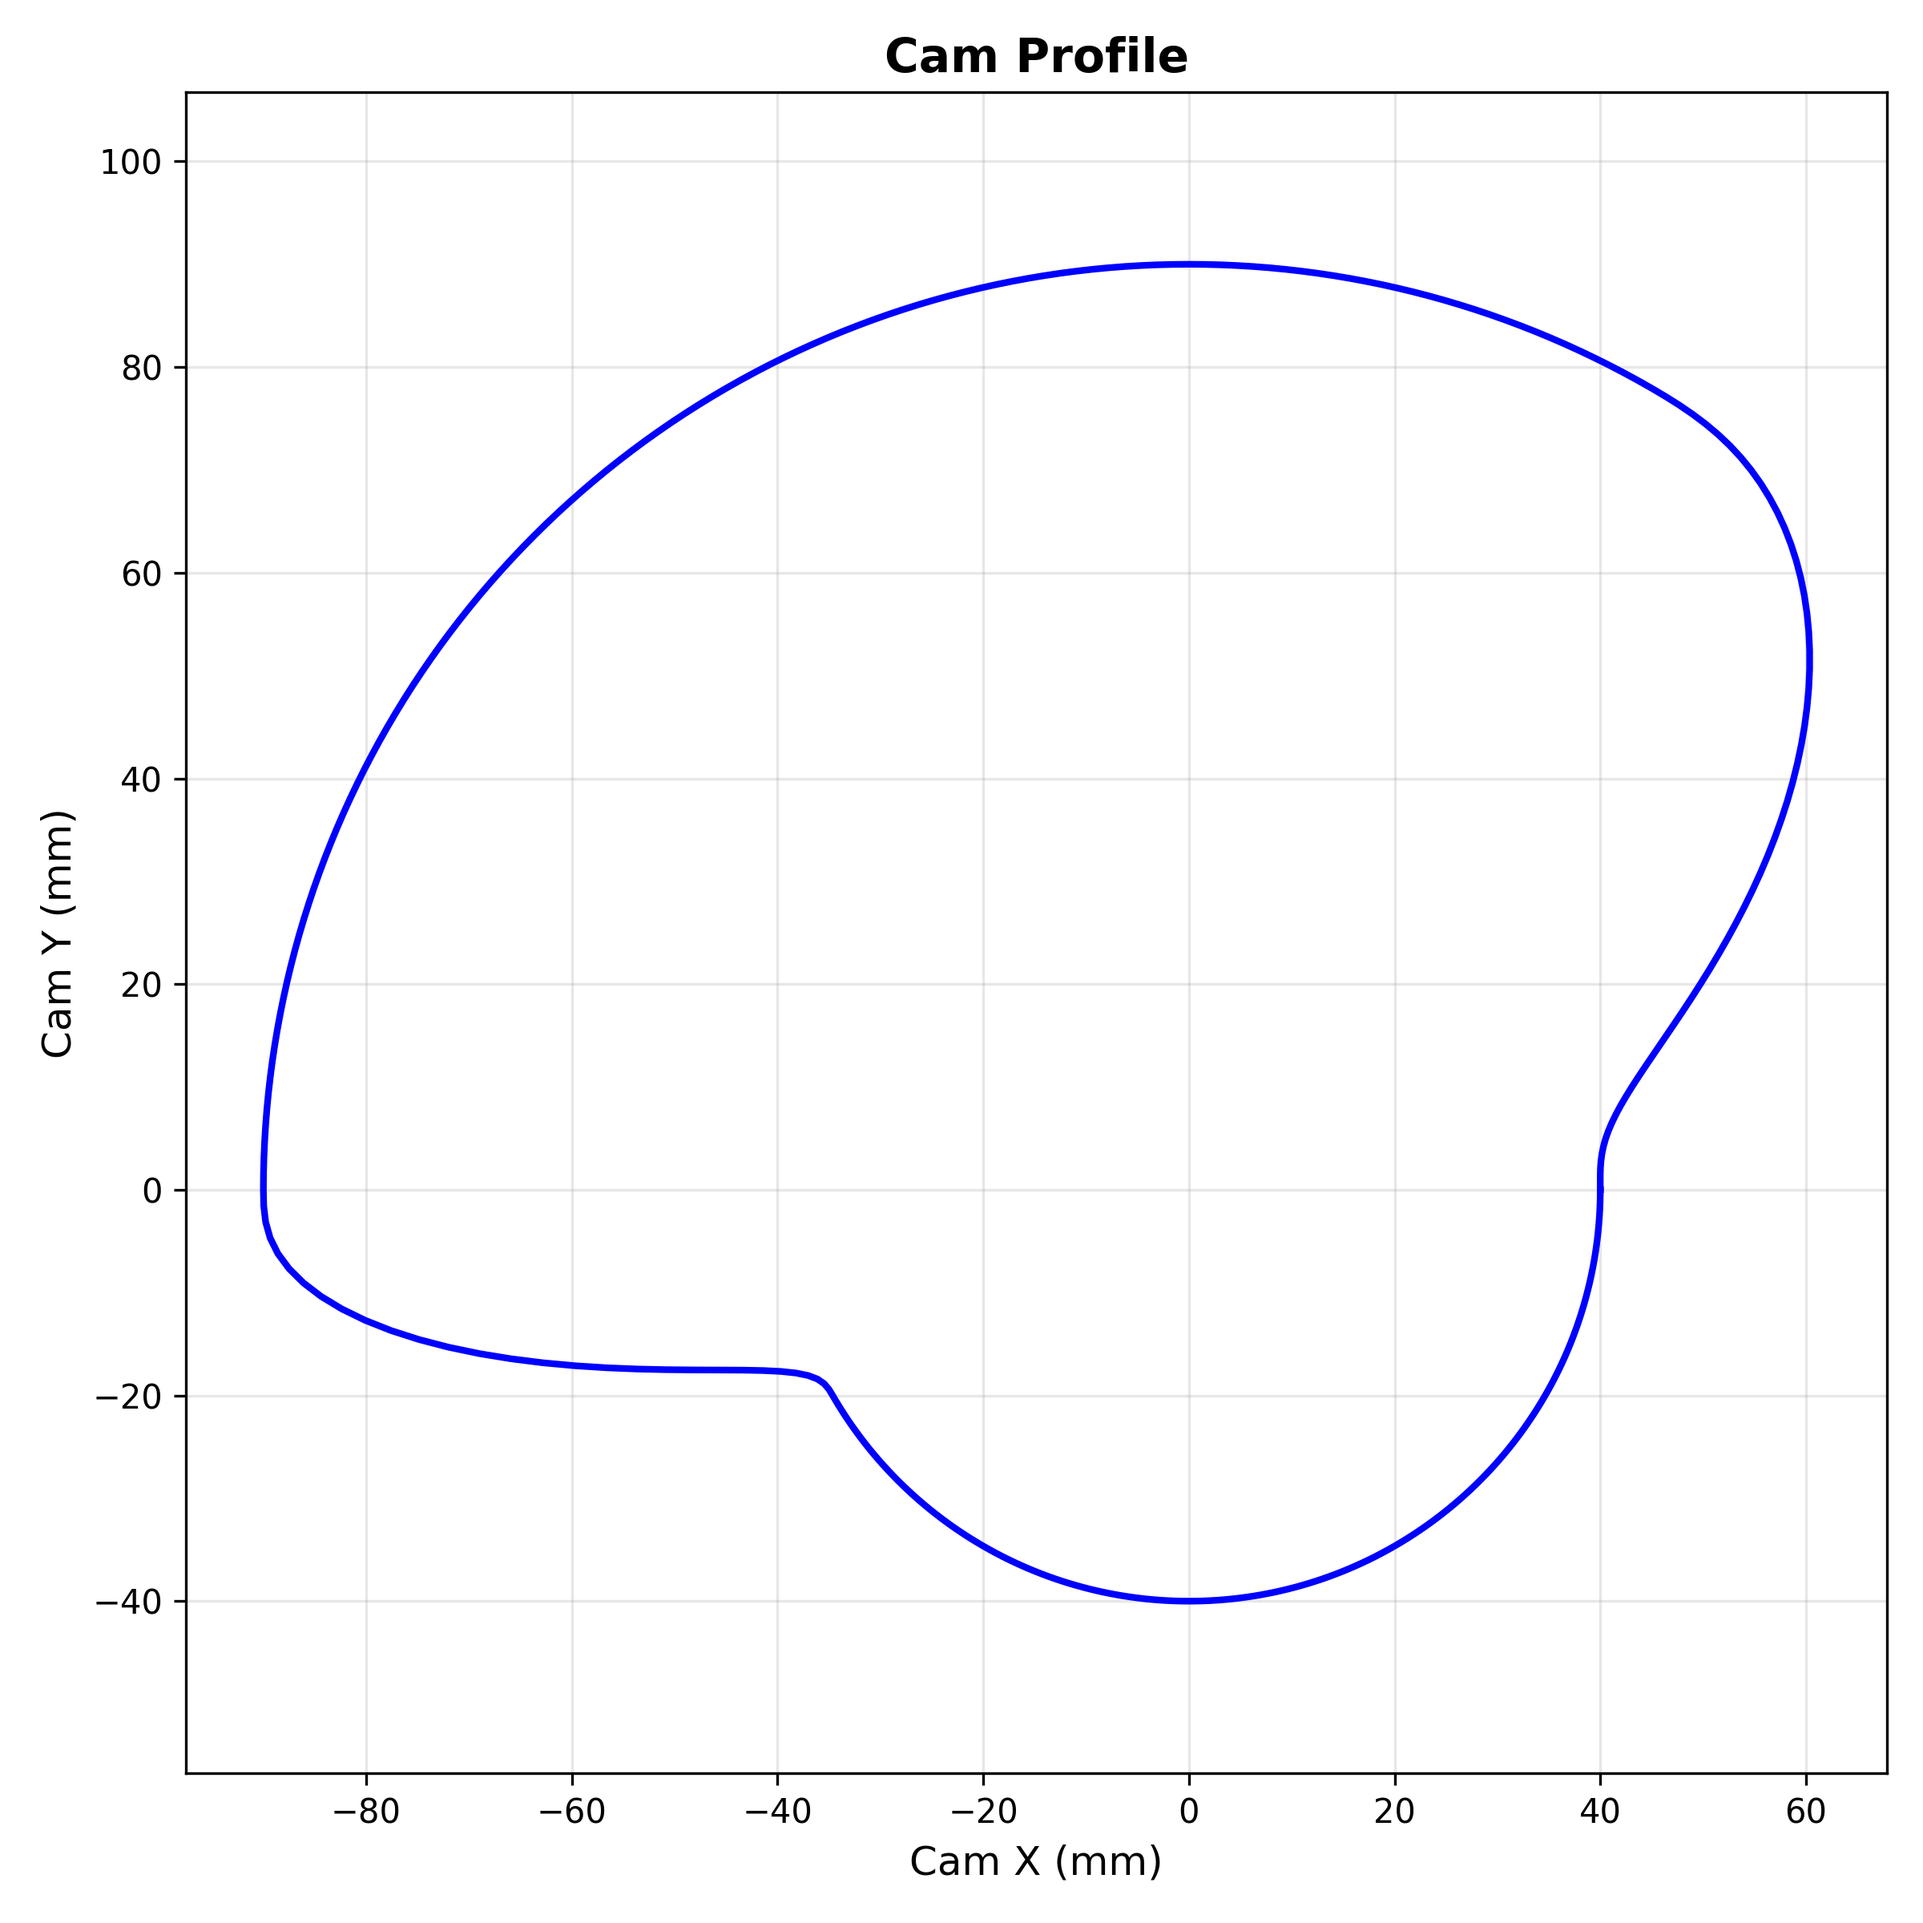
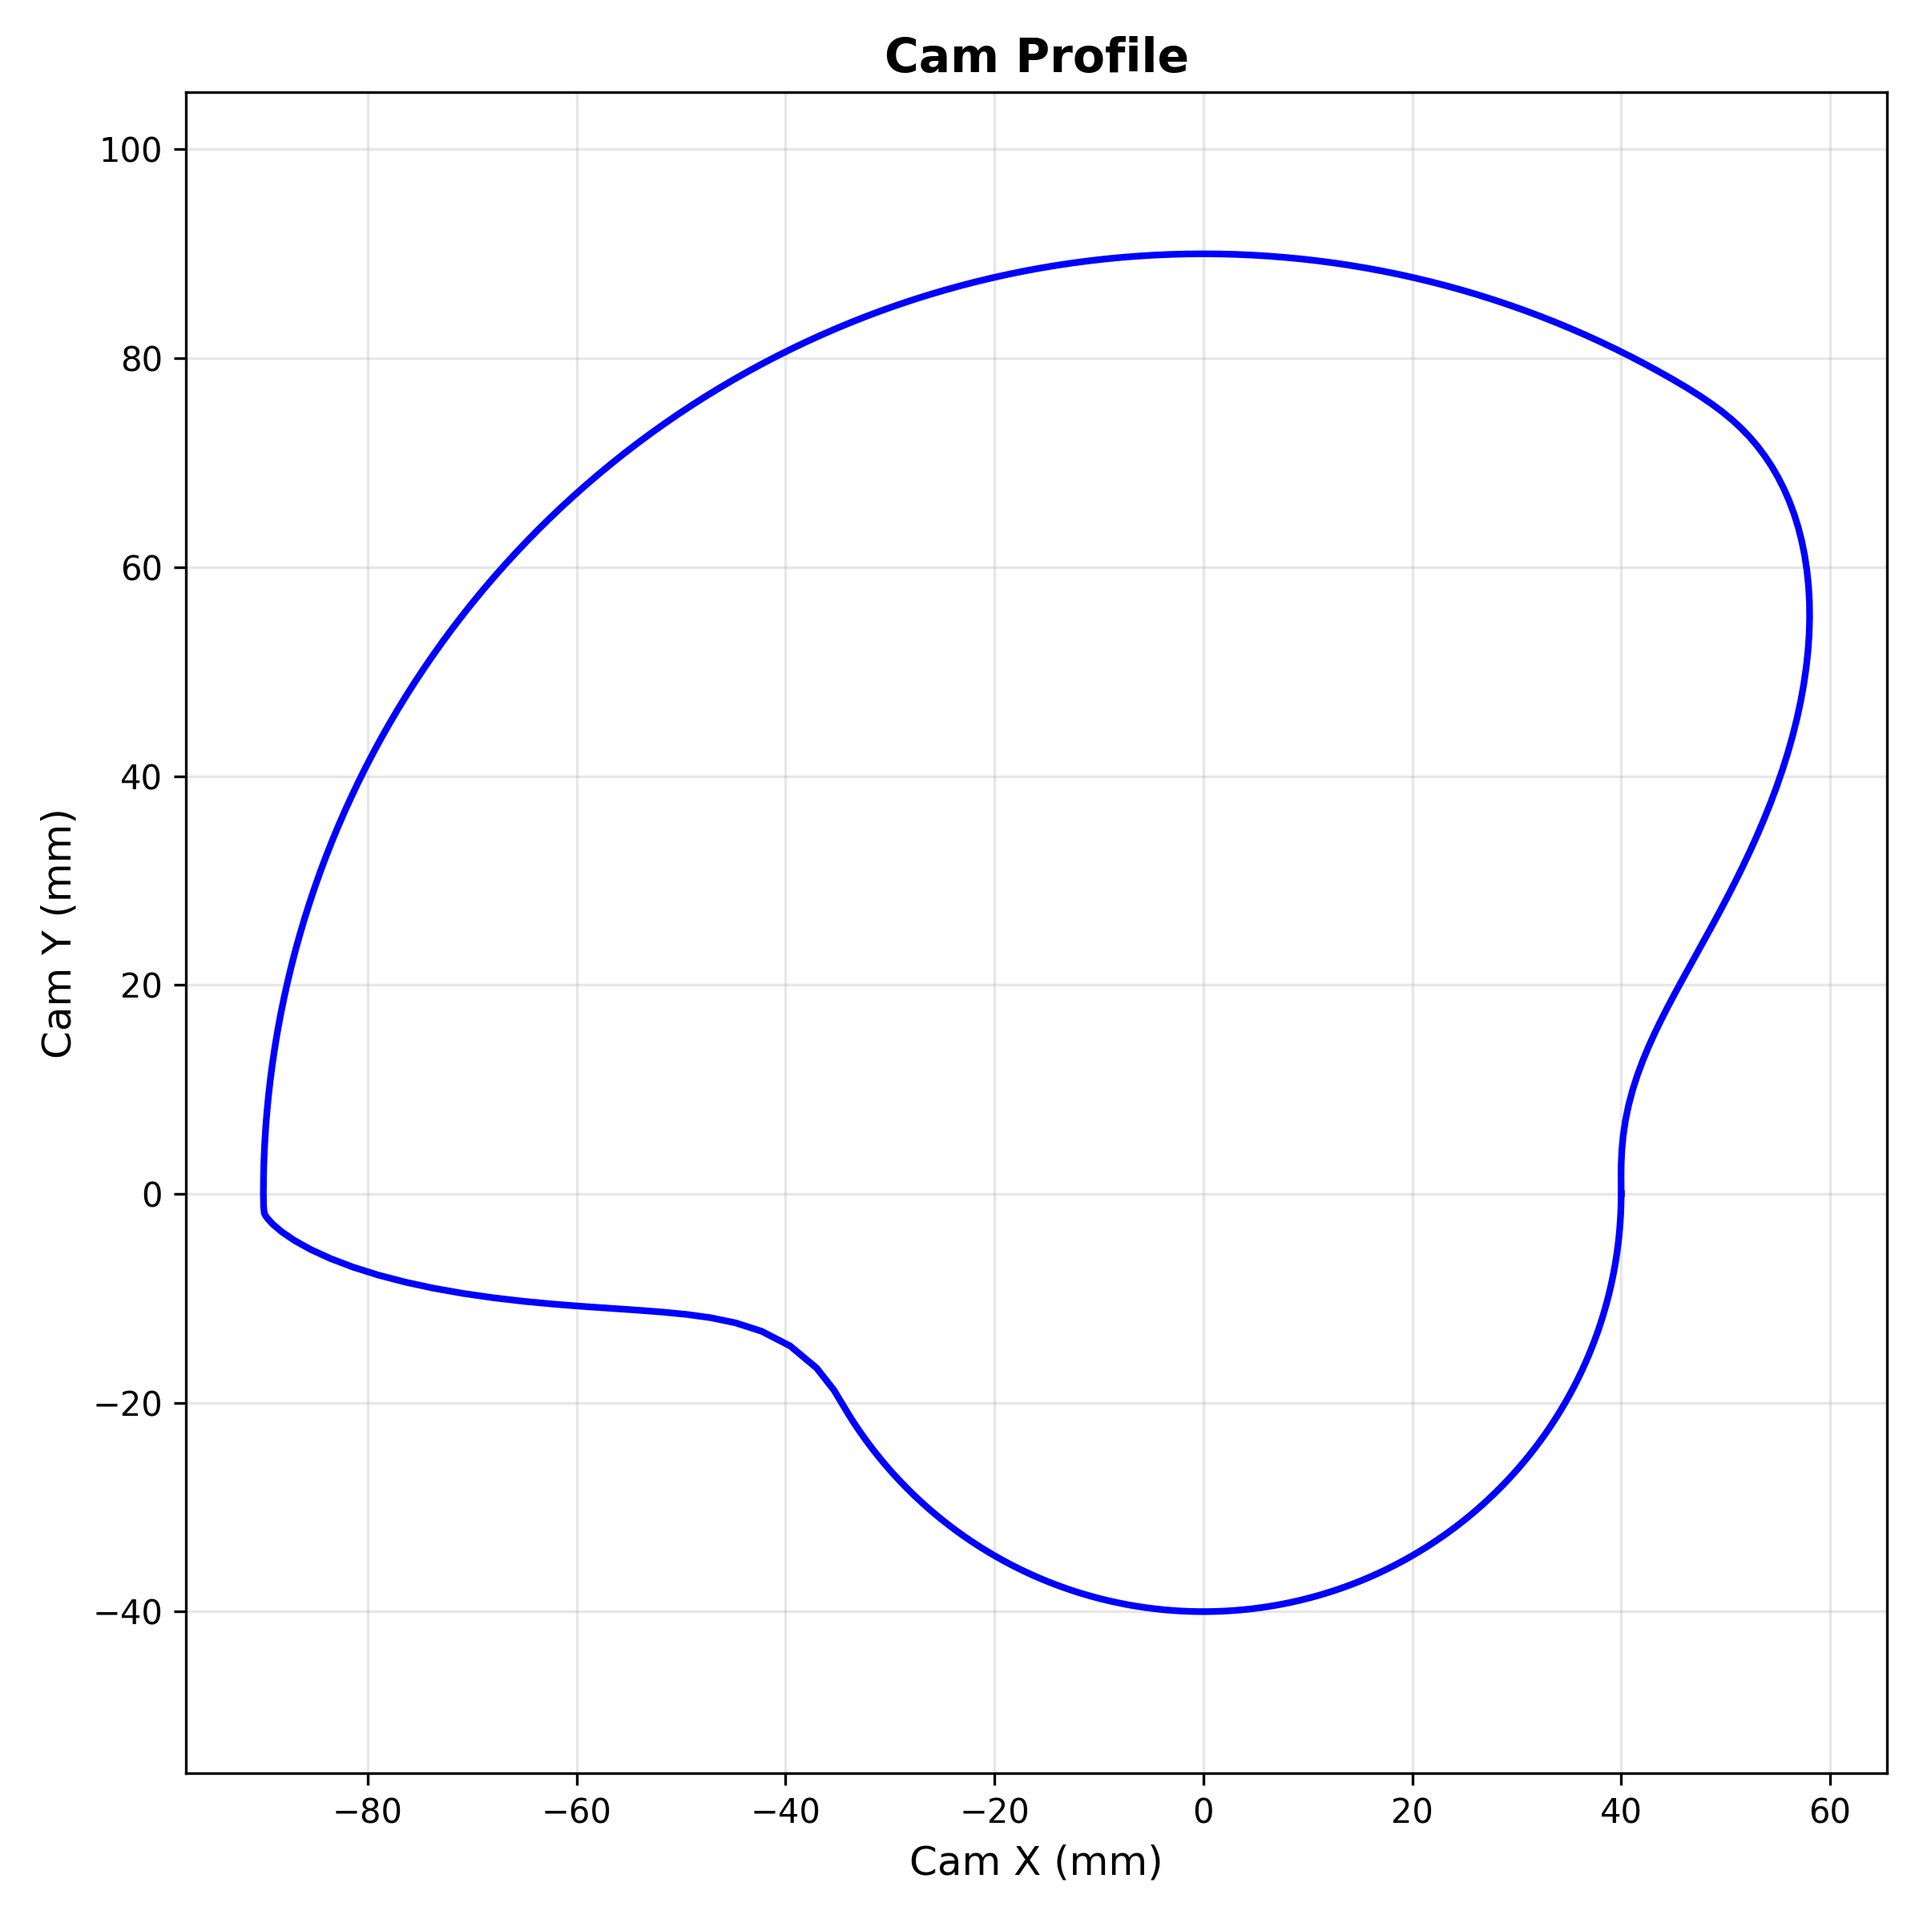
Updated comments and minor fixes

diff --git a/py_Modified_Sine.py b/py_Modified_Sine.py
@@ -1,5 +1,3 @@
-
-
 import numpy as np
 import pandas as pd
 import matplotlib.pyplot as plt
@@ -21,7 +19,7 @@ Follower motion:
 # Design parameters
 
 h = 50.0        # lift (mm)
-Rp = 50.0       # not sure what was that (mm)
+Rp = 50.0       # prime circle radius (mm)
 Rf = 10.0       # Follower Radius (mm)
 
 total_angle = 360  # degrees (full cycle)
@@ -36,7 +34,7 @@ beta2 = 120.0   # dwell
 beta3 = 30.0    # fall 
 beta4 = 150.0   # dwell
 
-# Selction for minmum velocity : Modified Sine
+# Selction for minimum velocity : Modified Sine
 
 b = 0.25
 d = 0.75
@@ -152,37 +150,6 @@ def cam_motion(theta):
     else:
         return 0.0, 0.0, 0.0, 0.0, 0.0
 
-def check_continuity():
-
-    test_points = [x1 - 1e-6, x1, x1 + 1e-6, 
-                   x2 - 1e-6, x2, x2 + 1e-6,
-                   x3 - 1e-6, x3, x3 + 1e-6,
-                   x4 - 1e-6, x4, x4 + 1e-6]
-    
-    print("Continuity check at zone boundaries:")
-    for x in test_points:
-        if 0 <= x <= 1:
-            y, yp, ypp, yppp = norm_motion(x)
-            print(f"x={x:.6f}: y={y:.6f}, yp={yp:.6f}, ypp={ypp:.6f}, yppp={yppp:.6f}")
-
-
-# Plotting cam profile (Testing)
-
-def plot_cam_profile(df):
-    """Plot the cam profile (X vs Y coordinates)"""
-    plt.figure(figsize=(8, 8))
-    plt.plot(df['Cam_X_mm'], df['Cam_Y_mm'], 'b-', linewidth=2)
-    plt.xlabel('Cam X (mm)', fontsize=12)
-    plt.ylabel('Cam Y (mm)', fontsize=12)
-    plt.title('Cam Profile', fontsize=14, fontweight='bold')
-    plt.grid(True, alpha=0.3)
-    plt.axis('equal')  # Equal aspect ratio for true shape
-    plt.tight_layout()
-    plt.savefig('cam_profile.png', dpi=300)
-    plt.show()
-
-
-
 
 
 
@@ -199,12 +166,28 @@ for theta in np.arange(0, 361, 1):
     "Angle_deg": theta,
     "x_norm": round(x, 5),
     "s_mm": round(s, 5),
-    "v_mm_per_s": round(v, 6),      # Changed
-    "a_mm_per_s2": round(a, 6),     # Changed
-    "j_mm_per_s3": round(j, 6),     # Changed
+    "v_mm_per_s": round(v, 6),     
+    "a_mm_per_s2": round(a, 6),     
+    "j_mm_per_s3": round(j, 6),     
     "Cam_X_mm": round((r - Rf)*np.cos(th), 5),
     "Cam_Y_mm": round((r - Rf)*np.sin(th), 5)
     })
+
+def plot_cam_profile(df):
+    """Plot the cam profile (X vs Y coordinates)"""
+    plt.figure(figsize=(8, 8))
+    plt.plot(df['Cam_X_mm'], df['Cam_Y_mm'], 'b-', linewidth=2)
+    plt.xlabel('Cam X (mm)', fontsize=12)
+    plt.ylabel('Cam Y (mm)', fontsize=12)
+    plt.title('Cam Profile', fontsize=14, fontweight='bold')
+    plt.grid(True, alpha=0.3)
+    plt.axis('equal')  # Equal aspect ratio for true shape
+    plt.tight_layout()
+    plt.savefig('cam_profile.png', dpi=300)
+    plt.show()
+
+
+# Outputs 
 
 
 df = pd.DataFrame(rows)
